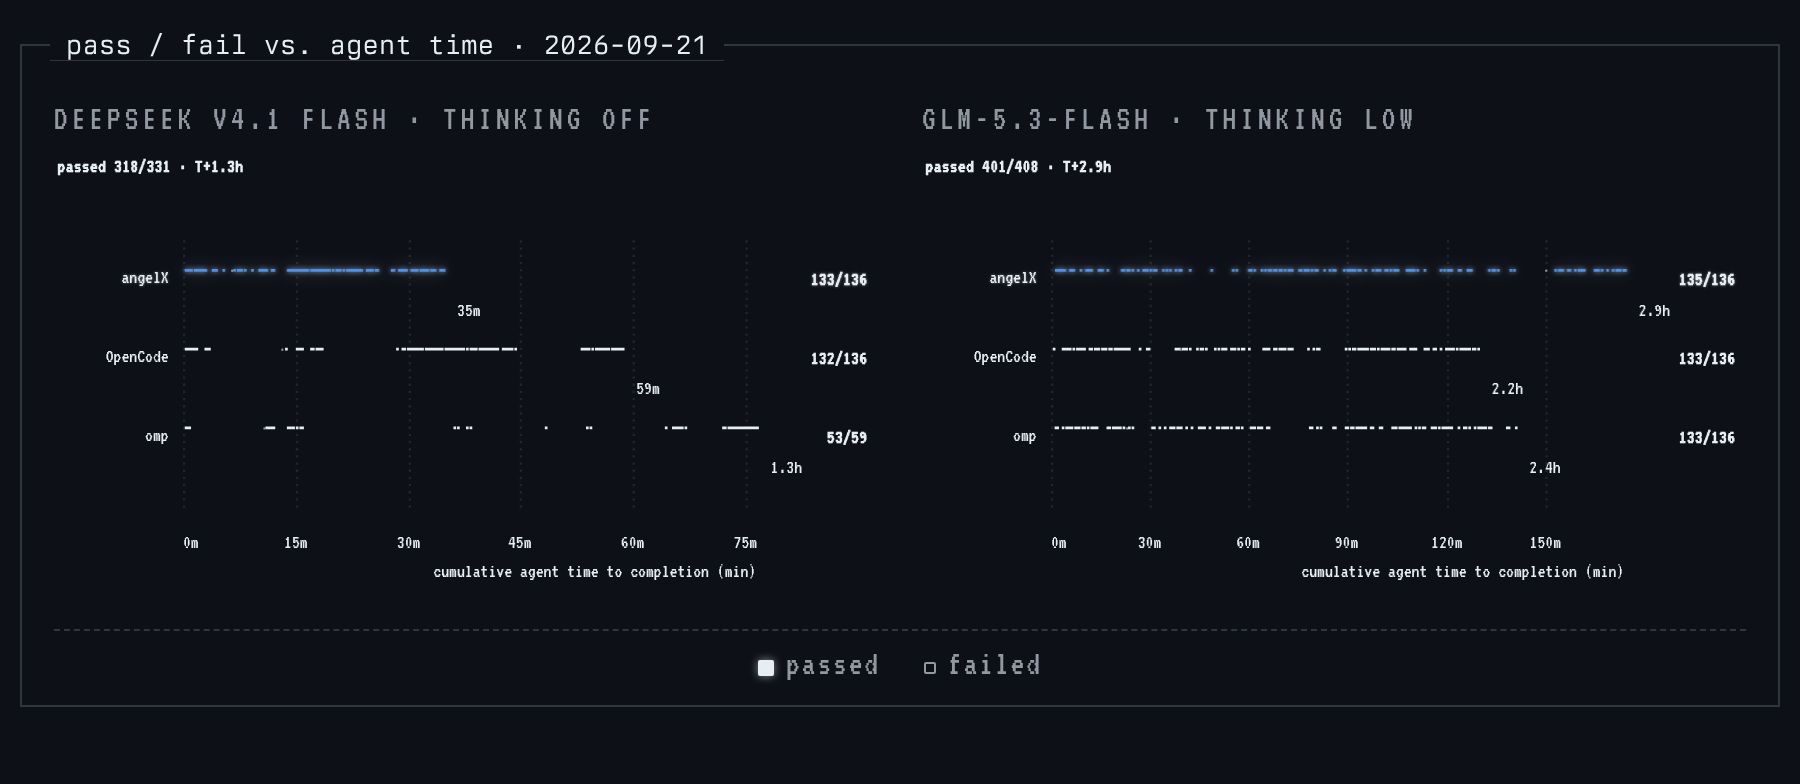
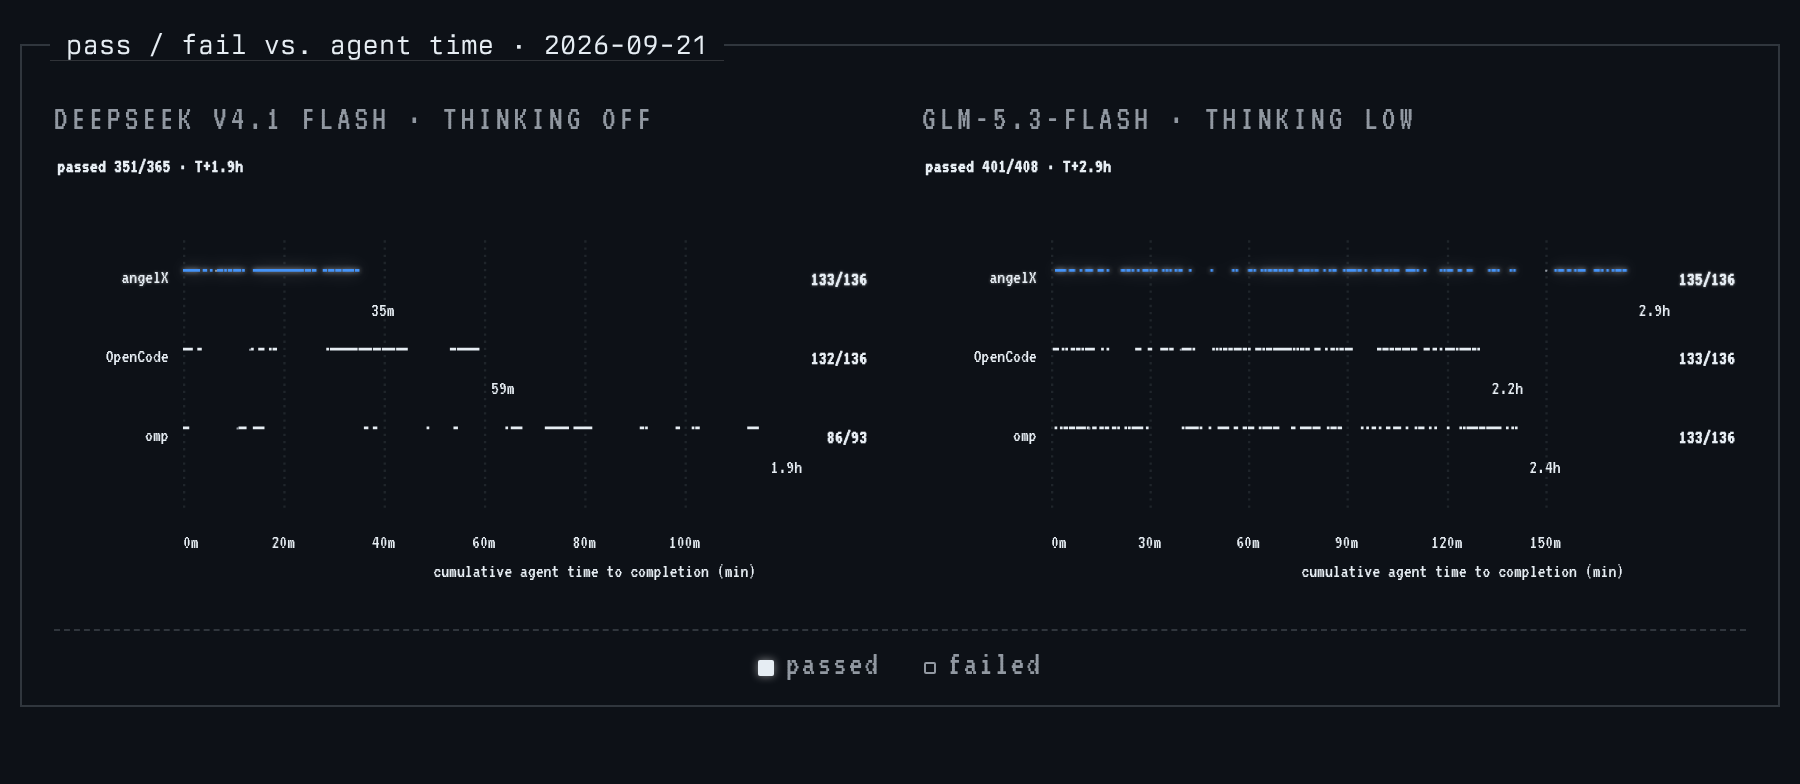
docs(benchmark): charts from final results; shorter footnote

diff --git a/scripts/build_polyglot_bench_data.py b/scripts/build_polyglot_bench_data.py
@@ -59,7 +59,9 @@ def main() -> None:
             rs = [r for r in rows if r["model"] == model and r["harness"] == harness]
             if not rs:
                 continue
-            rs.sort(key=lambda r: (r.get("run", ""), r.get("task_index", 0)))
+            # Keep export order within a run: it is execution order, and a
+            # resumed (pickup) segment restarts task_index at 0.
+            rs.sort(key=lambda r: r.get("run", ""))
             runs = sorted({r.get("run", "") for r in rs})
             attempts = [
                 {

diff --git a/README.md b/README.md
@@ -45,7 +45,7 @@ cd angelX
 | | OpenCode 1.18.31 | 133 / 136 | 38.9 s | 7.4 | 10.1 M | 85% | 179 k |
 | | oh-my-pi 18.2.4 | 133 / 136 | 37.7 s | 8.9 | 24.1 M | 90% | 203 k |
 
-* oh-my-pi on DeepSeek reached its 200M-token budget cap after 93 tasks (86 solved). The run was paused once for debugging and resumed. The other five cells ran all 136.
+* oh-my-pi on DeepSeek reached its 200M-token budget cap after 93 tasks.
 
 angelX runs a verification step before reporting a task done. That step accounts for its extra wall time on GLM; higher thinking levels add more.
 

diff --git a/docs/telemetry/polyglot-benchmark-20260921.md b/docs/telemetry/polyglot-benchmark-20260921.md
@@ -19,7 +19,7 @@
 | Median wall | 9.9 s | 8.6 s | 15.3 s |
 | Timeouts | 0 | 2 | 7 |
 
-\* omp reached its 200M-token budget cap after 93 tasks. The run was paused once for debugging and resumed.
+\* omp reached its 200M-token budget cap after 93 tasks.
 
 ## Harness notes
 
